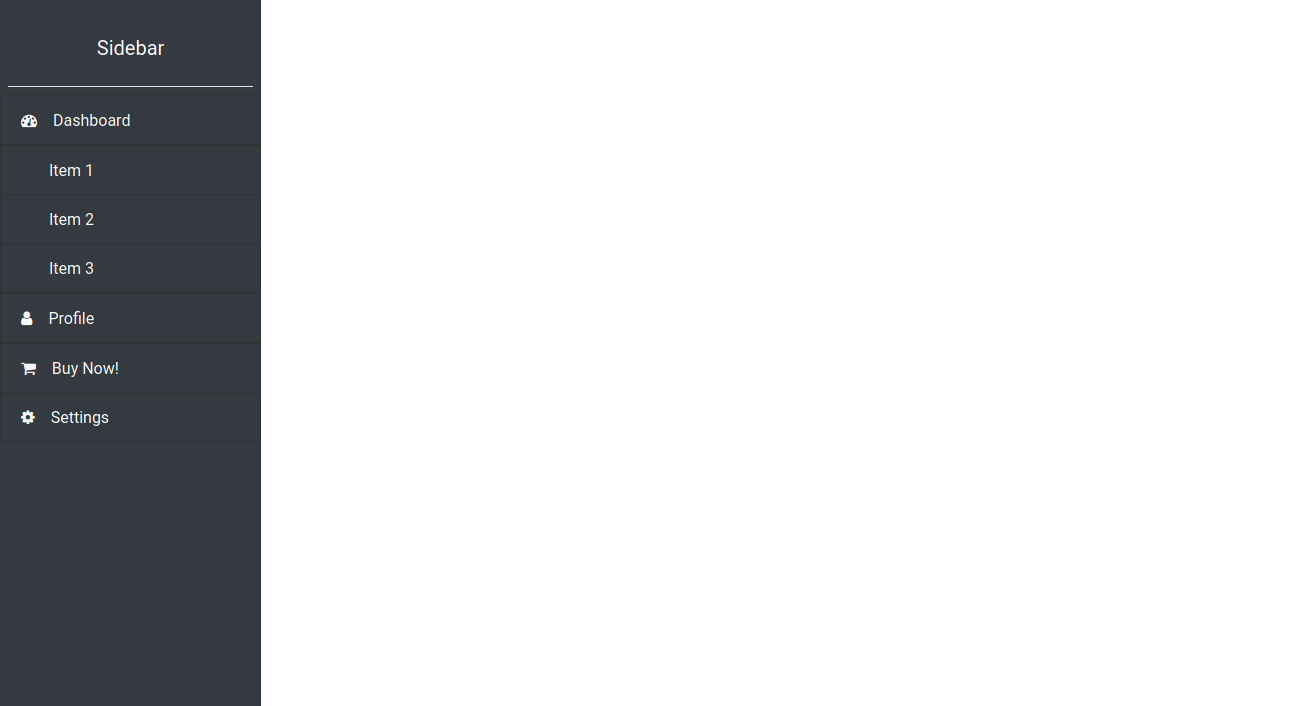
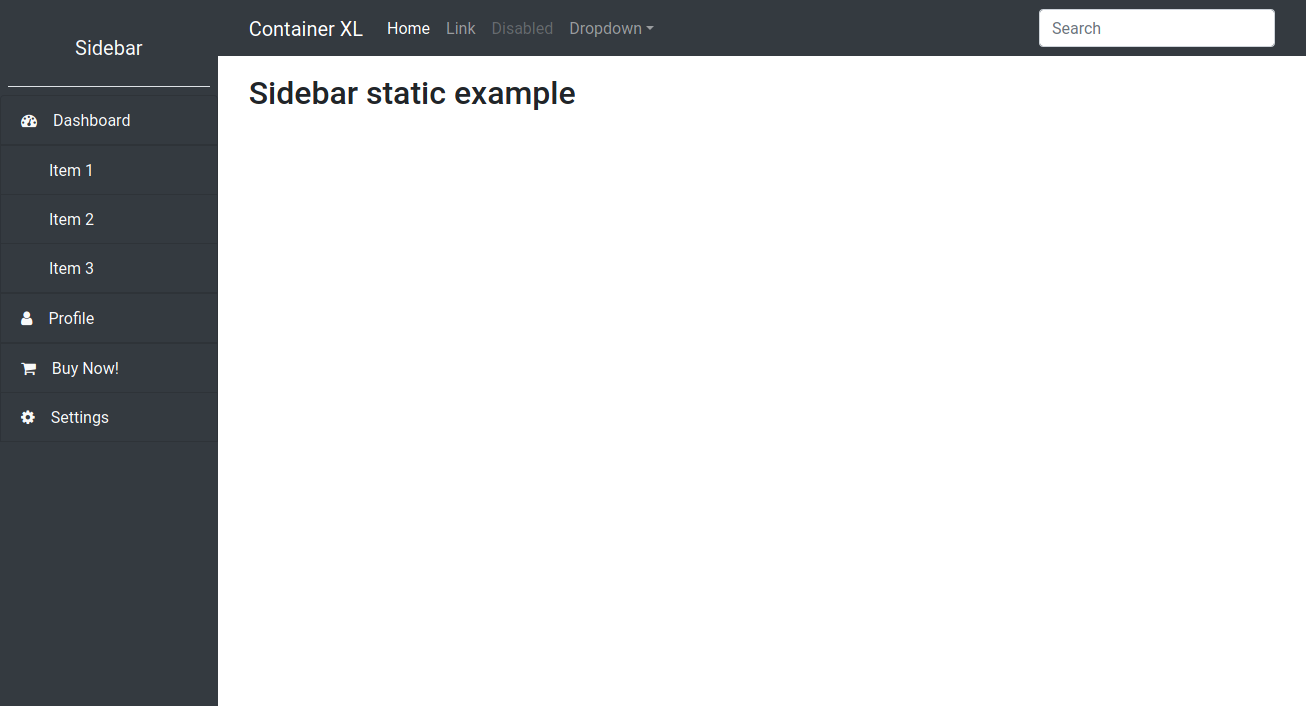
Add image

Changed region(s): [[0.1531, 0.0, 1.0, 1.0], [0.0613, 0.0623, 0.1225, 0.0935]]

diff --git a/index.html b/index.html
@@ -23,59 +23,105 @@
 </head>
 
 <body>
-  <div id="sidebar">
-    <div class="p-2">
-      <a href="#" class="navbar-brand text-center text-light w-100 p-4 border-bottom">
-        Sidebar
-      </a>
-    </div>
-    <div id="sidebar-accordion" class="accordion">
-      <div class="list-group">
-        <a href="#dashboard-items" data-toggle="collapse" aria-expanded="false"
-          class="list-group-item list-group-item-action bg-dark text-light">
-          <i class="fa fa-tachometer mr-3" aria-hidden="true"></i>Dashboard
+  <div class="d-flex">
+    <div id="sidebar">
+      <div class="p-2">
+        <a href="#" class="navbar-brand text-center text-light w-100 p-4 border-bottom">
+          Sidebar
         </a>
-        <div id="dashboard-items" class="collapse" data-parent="#sidebar-accordion">
-          <a href="#" class="list-group-item list-group-item-action bg-dark text-light pl-5">
-            Item 1
+      </div>
+      <div id="sidebar-accordion" class="accordion">
+        <div class="list-group">
+          <a href="#dashboard-items" data-toggle="collapse" aria-expanded="false"
+            class="list-group-item list-group-item-action bg-dark text-light">
+            <i class="fa fa-tachometer mr-3" aria-hidden="true"></i>Dashboard
           </a>
-          <a href="#" class="list-group-item list-group-item-action bg-dark text-light pl-5">
-            Item 2
-          </a>
-          <a href="#" class="list-group-item list-group-item-action bg-dark text-light pl-5">
-            Item 3
-          </a>
-        </div>
-        <a href="#profile-items" data-toggle="collapse" aria-expanded="false"
-          class="list-group-item list-group-item-action bg-dark text-light">
-          <i class="fa fa-user mr-3" aria-hidden="true"></i>Profile
-        </a>
-        <div id="profile-items" class="collapse" data-parent="#sidebar-accordion">
-          <a href="#" class="list-group-item list-group-item-action bg-dark text-light pl-5">
-            Item 1
-          </a>
-          <a href="#" class="list-group-item list-group-item-action bg-dark text-light pl-5">
-            Item 2
-          </a>
-        </div>
-        <a href="#" class="list-group-item list-group-item-action bg-dark text-light">
-          <i class="fa fa-shopping-cart mr-3" aria-hidden="true"></i>Buy Now!
-        </a>
-        <a href="#setting-items" data-toggle="collapse" aria-expanded="false"
-          class="list-group-item list-group-item-action bg-dark text-light">
-          <i class="fa fa-cog mr-3" aria-hidden="true"></i>Settings
-        </a>
-        <div id="setting-items" class="collapse" data-parent="#sidebar-accordion">
-          <div class="d-flex flex-row text-center">
-            <a href="#" class="list-group-item list-group-item-action bg-dark text-light">
+          <div id="dashboard-items" class="collapse" data-parent="#sidebar-accordion">
+            <a href="#" class="list-group-item list-group-item-action bg-dark text-light pl-5">
               Item 1
             </a>
-            <a href="#" class="list-group-item list-group-item-action bg-dark text-light">
+            <a href="#" class="list-group-item list-group-item-action bg-dark text-light pl-5">
+              Item 2
+            </a>
+            <a href="#" class="list-group-item list-group-item-action bg-dark text-light pl-5">
+              Item 3
+            </a>
+          </div>
+          <a href="#profile-items" data-toggle="collapse" aria-expanded="false"
+            class="list-group-item list-group-item-action bg-dark text-light">
+            <i class="fa fa-user mr-3" aria-hidden="true"></i>Profile
+          </a>
+          <div id="profile-items" class="collapse" data-parent="#sidebar-accordion">
+            <a href="#" class="list-group-item list-group-item-action bg-dark text-light pl-5">
+              Item 1
+            </a>
+            <a href="#" class="list-group-item list-group-item-action bg-dark text-light pl-5">
               Item 2
             </a>
           </div>
+          <a href="#" class="list-group-item list-group-item-action bg-dark text-light">
+            <i class="fa fa-shopping-cart mr-3" aria-hidden="true"></i>Buy Now!
+          </a>
+          <a href="#setting-items" data-toggle="collapse" aria-expanded="false"
+            class="list-group-item list-group-item-action bg-dark text-light">
+            <i class="fa fa-cog mr-3" aria-hidden="true"></i>Settings
+          </a>
+          <div id="setting-items" class="collapse" data-parent="#sidebar-accordion">
+            <div class="d-flex flex-row text-center">
+              <a href="#" class="list-group-item list-group-item-action bg-dark text-light">
+                Item 1
+              </a>
+              <a href="#" class="list-group-item list-group-item-action bg-dark text-light">
+                Item 2
+              </a>
+            </div>
+          </div>
         </div>
       </div>
+    </div>
+    <div class="content w-100">
+      <nav class="navbar navbar-expand-lg navbar-dark bg-dark">
+        <div class="container-xl">
+          <a class="navbar-brand" href="#">Container XL</a>
+          <button class="navbar-toggler" type="button" data-toggle="collapse" data-target="#navbarsExample07XL" aria-controls="navbarsExample07XL" aria-expanded="false" aria-label="Toggle navigation">
+            <span class="navbar-toggler-icon"></span>
+          </button>
+      
+          <div class="collapse navbar-collapse" id="navbarsExample07XL">
+            <ul class="navbar-nav mr-auto">
+              <li class="nav-item active">
+                <a class="nav-link" href="#">Home <span class="sr-only">(current)</span></a>
+              </li>
+              <li class="nav-item">
+                <a class="nav-link" href="#">Link</a>
+              </li>
+              <li class="nav-item">
+                <a class="nav-link disabled" href="#" tabindex="-1" aria-disabled="true">Disabled</a>
+              </li>
+              <li class="nav-item dropdown">
+                <a class="nav-link dropdown-toggle" href="#" id="dropdown07XL" data-toggle="dropdown" aria-expanded="false">Dropdown</a>
+                <div class="dropdown-menu" aria-labelledby="dropdown07XL">
+                  <a class="dropdown-item" href="#">Action</a>
+                  <a class="dropdown-item" href="#">Another action</a>
+                  <a class="dropdown-item" href="#">Something else here</a>
+                </div>
+              </li>
+            </ul>
+            <form class="form-inline my-2 my-md-0">
+              <input class="form-control" type="text" placeholder="Search" aria-label="Search">
+            </form>
+          </div>
+        </div>
+      </nav>
+      <section class="p-3">
+        <div class="container">
+          <div class="row">
+            <div class="col-md-12">
+              <h2>Sidebar static example</h2>
+            </div>
+          </div>
+        </div>
+      </section>
     </div>
   </div>
   <!-- Optional JavaScript -->
